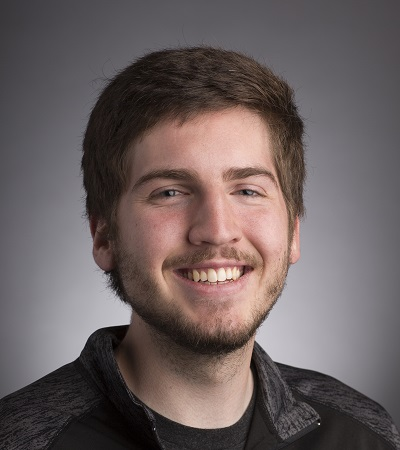
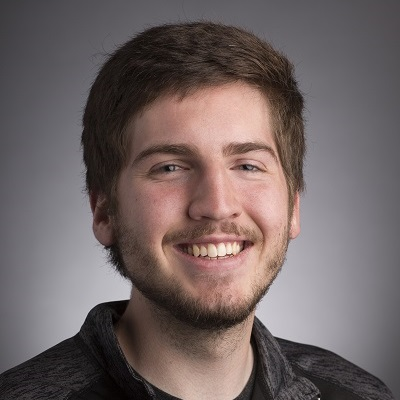
major changes around the site

diff --git a/index.html b/index.html
@@ -10,6 +10,7 @@
 	<link rel="apple-touch-icon" sizes="180x180" href="./img/apple-touch-icon.png">
 	<link rel="icon" type="image/png" sizes="32x32" href="./img/favicon-32x32.png">
 	<link rel="icon" type="image/png" sizes="16x16" href="./img/favicon-16x16.png">
+	<link rel="manifest" href="./js/site.json">
 	<meta name="viewport" content="width=device-width, initial-scale=1">
 	<link href="https://fonts.googleapis.com/css?family=Roboto" rel="stylesheet">
 	<link rel="stylesheet" href="./css/bootstrap/bootstrap.min.css">
@@ -18,8 +19,8 @@
 
 <body>
 
-	<nav class="navbar navbar-expand-lg navbar-light bg-light" id="navbar-example2">
-		<a class="navbar-brand" href="#top">Rider Jensen</a>
+	<nav class="navbar navbar-expand-lg navbar-light bg-light">
+		<a class="navbar-brand">Rider Jensen</a>
 		<button class="navbar-toggler" type="button" data-toggle="collapse" data-target="#navbarSupportedContent"
 			aria-controls="navbarSupportedContent" aria-expanded="false" aria-label="Toggle navigation">
 			<span class="navbar-toggler-icon"></span>
@@ -50,17 +51,14 @@
 		</div>
 	</nav>
 
-	<!-- Main jumbotron for a primary marketing message or call to action -->
-	<a id="top"></a>
+	<!-- Main jumbotron -->
 	<div class="jumbotron">
 		<div class="jumbo-opacity"></div>
-		<div class="container">
-			<div class="row">
-				<h1 class="display-4 text-white">Web Development<br /><span class="secondary-color">with a human
-						touch</span>.</h1>
-				<p class="lead text-white width-100">Dont waste time creating a website that wont accomplish your goals.
-				</p>
-				<p class="width-100 text-white">Custom made web solutions built to increase productivity and revenue.</p>
+		<div class="container mt-5">
+			<div class="row mt-2">
+				<h1 class="display-4 text-white">Web Development<br /><span class="secondary-color">with a human touch</span>.</h1>
+				<p class="lead text-white">Dont waste time creating a website that wont accomplish your goals.</p>
+				<p class="w-100 text-white">Custom made web solutions built to increase productivity and revenue.</p>
 				<a class="btn btn-primary btn-lg" href="#contact" role="button">Contact Me</a>
 			</div>
 		</div>
@@ -70,78 +68,62 @@
 	<div style="position: relative;">
 		<canvas class="background"></canvas>
 
-		<!-- Our Team -->
-		<div class="container padding-top-50 padding-bottom-50" id="about">
-			<div class="row padding-top-50">
-				<div class="col-md-12 col-lg-6 offset-lg-3">
-					<div class="card staff">
-						<div class="cover-image rounded-circle">
-							<img src="./img/rider.jpg" />
-						</div>
-						<div class="card-body">
-							<h5 class="card-title">Rider Jensen</h5>
-							<p class="title">Web Developer</p>
-							<p class="card-text">Highly ambitious problem solver with hands on industry experience.</p>
-						</div>
-					</div>
-				</div>
-			</div>
-		</div>
-
-
-		<div class="container padding-top-30 padding-bottom-30">
+		<div class="container pt-3 pb-3" id="about">
 			<div class="row">
 				<div class="col-md-10 offset-md-1 col-sm-12">
-					<h2 class="text-center padding-bottom-20">About Me</h2>
+					<img class="d-block mx-auto cover-image rounded-circle" alt="A picture of Rider Jensen" src="./img/rider.jpg" />
+					<h2 class="text-center pb-2">Rider Jensen</h2>
+					<p class="mb-3 h5 text-center">Web Developer</p>
 					<p>I am a web application developer, I am very interested in the frontend experience for users as well as machine learning and where it can take us. I fell into web development after completing an associate's degree in History and Political Science. I found that not only was I technically minded but many of my past experiences had left me very customer service oriented. Helping people is something that I have always loved to do and web development has allowed me to fulfill this purpose in my life while working with technologies that I love.</p>
 					<p>Besides coding, I enjoy cooking, concerts, video games, and learning. At any given moment you could find me watching an online course, bingeing a Netflix series, or listening to Lofi music while I work on a side project.</p>
 				</div>
 			</div>
-			<!--End Container -->
 		</div>
 
-		<div class="container padding-top-20 padding-bottom-20" id="projects">
-			<h2 class="text-center padding-bottom-20">Projects</h2>
-			<p class="text-center">This is just a small showcase of the projects I have worked on. View my <a href="https://github.com/riderjensen" target="_blank">Github</a> to see all my projects and source code.</p>
+		<div class="container pt-2 pb-2" id="projects">
+			<div class="row">
+				<div class="col-md-10 offset-md-1 col-sm-12">
+					<h2 class="text-center pb-2">Projects</h2>
+					<p class="text-center">This is just a small showcase of the projects I have worked on. View my <a href="https://github.com/riderjensen" target="_blank">Github</a> to see all my projects and source code.</p>
+				</div>
+			</div>
 		</div>
-		<div class="container padding-top-20 padding-bottom-20">
-			<div class="row padding-bottom-20">
-				<div class="col-md-2"></div>
-				<div class="col-md-8">
-					<div class="card" style="width: 100%;">
+		<div class="container pt-2 pb-2">
+			<div class="row pb-3">
+				<div class="col-md-8 offset-md-2">
+					<div class="card w-100">
 						<img class="card-img-top" src="./img/exp4.png" alt="Screenshot of the Inc Fast Now homescreen">
 						<div class="card-body">
-						  <h5 class="card-title text-center"><a href="https://incfastnow.com" target="_blank">Inc Fast Now</a></h5>
-						  <p class="card-text">Inc Fast Now is a client project that I was contracted to make. The frontend is built with React.js while the backend is a Node.js RESTful API. The code includes cart management, user validation, and payment processing. It also included the creation of a CRM, mail server, and CMS website. I handled the whole project from start to finish including server set up and management. Email or call me for access to review the source code.</p>
+						  <h5 class="m-0 text-center"><a href="https://incfastnow.com" target="_blank">Inc Fast Now</a></h5>
+						  <p class="card-text">Inc Fast Now is a client project that I was contracted to make. The frontend is built with React.js while the backend is a Node.js RESTful API. The code includes cart management, user validation, and payment processing. It also included the creation of a CRM, mail server, and CMS website. I handled the whole project from start to finish including server set up and management. <a href="#contact">Contact</a> me for more information on the source code.</p>
 						</div>
 					  </div>
 				</div>
-				<div class="col-md-2"></div>
 			</div>
-			<div class="row">
-				<div class="col-md-4 padding-bottom-20">
-					<div class="card" style="width: 100%;">
+			<div class="row pb-3">
+				<div class="col-md-4 pb-3">
+					<div class="card w-100">
 						<img class="card-img-top" src="./img/exp1.png" alt="Screenshot of the Project Arcanite homescreen">
 						<div class="card-body">
-						  <h5 class="card-title text-center"><a href="https://silly-minsky-690c3b.netlify.com" target="_blank">Project Arcanite</a></h5>
+						  <h5 class="m-0 text-center"><a href="https://silly-minsky-690c3b.netlify.com" target="_blank">Project Arcanite</a></h5>
 						  <p class="card-text">Project Arcanite is a posting platform similar to Yik-Yak with a few differences. The frontend is built with React.js and the backend is a restful Node.js application. It includes handwritten authentication as well as JWT verification. <a href="https://github.com/riderjensen/arcanite-front" target="_blank">Source</a></p>
 						</div>
 					  </div>
 				</div>
-				<div class="col-md-4 padding-bottom-20">
-					<div class="card" style="width: 100%;">
+				<div class="col-md-4 pb-3">
+					<div class="card w-100">
 						<img class="card-img-top" src="./img/exp2.png" alt="Screenshot of the admin area for the MVC of the URL shortner">
 						<div class="card-body">
-						  <h5 class="card-title text-center"><a href="https://easy-shortner.herokuapp.com" target="_blank">URL Shortner</a></h5>
+						  <h5 class="m-0 text-center"><a href="https://easy-shortner.herokuapp.com" target="_blank">URL Shortner</a></h5>
 						  <p class="card-text">This URL shortner was built as a RESTful api with an optional MVC, made in Node.js. Its totally open for people to download and use themselves. It's really easy to add in your own middleware and is still being updated with new technologies. <a href="https://github.com/riderjensen/nodejs-url-shortner" target="_blank">Source</a></p>
 						</div>
 					  </div>
 				</div>
-				<div class="col-md-4 padding-bottom-20">
-					<div class="card" style="width: 100%;">
+				<div class="col-md-4 pb-3">
+					<div class="card w-100">
 						<img class="card-img-top" src="./img//exp3.png" alt="Screenshot of the application page">
 						<div class="card-body">
-						  <h5 class="card-title text-center"><a href="https://play.google.com/store/apps/details?id=com.riderjensen.leanlist" target="_blank">Lean List</a></h5>
+						  <h5 class="m-0 text-center"><a href="https://play.google.com/store/apps/details?id=com.riderjensen.leanlist" target="_blank">Lean List</a></h5>
 						  <p class="card-text">Lean List is built with Dart and Flutter, it's a native mobile application that allows for multiple people to create, keep, and edit lists with other people. Because this app's backend is located on Firebase, it is cross platform. <a href="https://github.com/riderjensen/leanlist" target="_blank">Source</a></p>
 						</div>
 					  </div>
@@ -149,15 +131,16 @@
 			</div>
 		</div>
 	</div>
-	<div class="container padding-bottom-50" id="contact">
-		<div class="row text-center padding-bottom-50 padding-bottom-50">
+
+	<div class="container pb-5" id="contact">
+		<div class="row text-center pb-5">
 			<div class="col-12">
-				<h2 class="test-center padding-bottom-20">Contact Me</h2>
+				<h2 class="test-center pb-2">Contact Me</h2>
 				<p class="text-center">Interested in hiring me? Fill out my form or contact me through <a target="_blank" href="https://www.linkedin.com/in/rider-jensen/">LinkedIn</a>.</p>
 			</div>
 		</div>
 		<div class="row">
-			<div class="col-md-8 offset-md-2 col-12">
+			<div class="col-lg-8 offset-lg-2 col-12">
 				<form action="https://formspree.io/riderjensen@gmail.com" method="POST">
 					<div class="form-group">
 						<input type="text" required class="form-control" name="name" placeholder="Full name*">
@@ -181,7 +164,7 @@
 	</div>
 
 	<div class="container-fluid">
-		<footer>
+		<footer class="pt-2 pb-2">
 			<div class="container">
 				<div class="row">
 					<div class="col-sm-12 col-md-4 text-center">

diff --git a/css/main.css b/css/main.css
@@ -3,38 +3,6 @@ html {
 }
 
 /* ======= Start General Styles ======= */
-.text-center {
-    text-align: center;
-}
-
-.margin-auto {
-    margin: auto;
-}
-
-.padding-top-50 {
-    padding-top: 50px;
-}
-
-.padding-bottom-50 {
-    padding-bottom: 50px;
-}
-
-.padding-top-20 {
-    padding-top: 20px;
-}
-
-.padding-bottom-20 {
-    padding-bottom: 20px;
-}
-
-.width-100 {
-    width: 100%;
-}
-
-.media i {
-    font-size: 30px;
-    margin: 10px;
-}
 
 .secondary-color {
     color: 	hsl(17, 100%, 50%);
@@ -43,11 +11,6 @@ html {
 .highlight-color {
     color: 	hsl(200, 15%, 24%);
 }
-
-.text-white {
-    color: #fff;
-}
-
 /* ======= End General Styles ======= */
 
 
@@ -61,7 +24,7 @@ html {
 }
 
 .btn-primary {
-    background-color: 	hsl(17, 100%, 50%);
+    background-color: hsl(17, 100%, 50%);
     padding: 10px 20px;
     border: 2px solid rgba(0, 0, 0, 0.0);
     color: #fff;
@@ -103,11 +66,6 @@ html {
 
 .jumbotron .container * {
     z-index: 5;
-    margin-top: 20px;
-}
-
-.jumbotron .container {
-    margin-top: 50px;
 }
 
 .lead {
@@ -117,62 +75,9 @@ html {
 /* ======= End Header ====== */
 
 
-/* ====== Start Card Styes ====== */
-.card-body .title {
-    text-align: center;
-    font-size: 14px;
-
-}
-
-.card-title {
-    text-align: center;
-    margin: 0;
-
-}
-
-/* ====== End Card Styes ====== */
-
-
-/* ====== Start Main Selling Points ====== */
-
-.main-icon i {
-    font-size: 25px;
-}
-
-
-
-/* ======= Start Staff Cards ======= */
-
-.card.staff {
-    padding-top: 60px;
-    margin-top: 90px;
-    padding-bottom: 20px;
-    height: auto;
-}
-
-.card.staff .cover-image {
-    position: absolute;
-    top: -70px;
-    left: 0;
-    right: 0;
-    width: 100px;
-    margin: auto;
-    overflow: hidden;
-    margin-top: 20px;
-}
-
-.card.staff .cover-image img {
-    width: 100%;
-}
-
-.card.staff .connect {
-    width: 100%;
-    position: absolute;
-    bottom: 10px;
-    left: 0;
-    right: 0;
-    margin: auto;
-    text-align: center;
+.cover-image {
+    max-height: 150px;
+    max-width: 150px;
 }
 
 .background {
@@ -183,22 +88,9 @@ html {
     left: 0;
 }
 
-/* ======= End Staff Cards ======= */
-
-/* ====== Start Footer ====== */
-footer {
-    padding-top: 10px;
-    padding-bottom: 10px;
-}
-
-/* ====== End Footer ====== */
-
-
 /* Medium devices (tablets, 768px and up) */
 @media (min-width: 768px) {
     /* ======= Start Header ====== */
-
-
 
     .jumbotron .container {
         margin-top: 15vh;
@@ -209,14 +101,5 @@ footer {
     }
 
     /* ======= End Header ====== */
-
-}
-
-/* Large devices (desktops, 992px and up) */
-@media (min-width: 992px) {
-    .card.staff {
-        margin-top: 0px;
-        height: 100%;
-    }
 
 }
